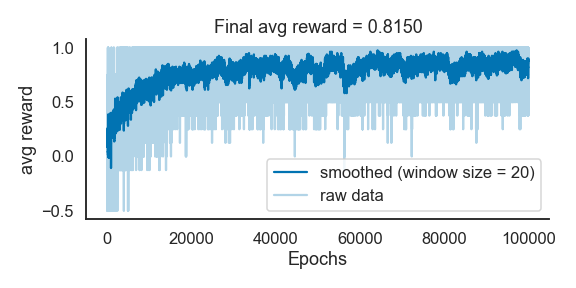
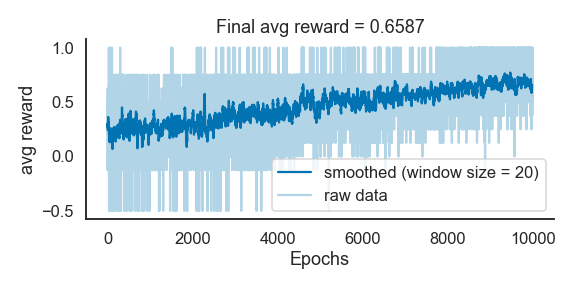
update fr task - allow vary the ratio of n : n_std

diff --git a/src/test-fr.py b/src/test-fr.py
@@ -22,10 +22,11 @@ fig_root = '../figs'
 
 # init task
 n = 8
+n_std = 4
 reward = 1
 penalty = -.5
 tmax = n // 2
-task = FreeRecall(n, reward=reward, penalty=penalty)
+task = FreeRecall(n_std=n_std, n=n, reward=reward, penalty=penalty)
 
 # init model
 lr = 1e-3
@@ -50,7 +51,7 @@ agent.load_state_dict(torch.load(os.path.join(log_path, fname)))
 n_test = 1000
 log_r = np.zeros((n_test, tmax))
 log_a = np.zeros((n_test, tmax))
-log_std_items = np.zeros((n_test, task.n_std))
+log_std_items = np.zeros((n_test, n_std))
 for i in range(n_test):
     # re-sample studied items
     X = task.sample(to_pytorch=True)
@@ -114,8 +115,8 @@ def lag2index(lag, n_std_items):
     return lag_index - 1
 
 # compute the tally for actual and possible responses
-tally = np.zeros((n_test, (task.n_std - 1)* 2))
-tally_poss = np.zeros((n_test, (task.n_std - 1)* 2))
+tally = np.zeros((n_test, (n_std - 1)* 2))
+tally_poss = np.zeros((n_test, (n_std - 1)* 2))
 lags = []
 for i in range(n_test):
     order_i = order[i]
@@ -123,16 +124,16 @@ for i in range(n_test):
     for j in range(len(order_i_rmnan) - 1):
         lag = int(order_i_rmnan[j+1] -  order_i_rmnan[j])
         if lag != 0:
-            lag_index = lag2index(lag, task.n_std)
+            lag_index = lag2index(lag, n_std)
             # increment the count of the corresponding lag index
             tally[i, lag_index] +=1
             lags.append(lag)
 
     for j in range(len(order_i_rmnan) - 1):
-        for o in range(task.n_std):
+        for o in range(n_std):
             lag_poss = int(o - order_i_rmnan[j])
             if lag_poss != 0:
-                lag_index = lag2index(lag_poss, task.n_std)
+                lag_index = lag2index(lag_poss, n_std)
                 tally_poss[i, lag_index] +=1
 
 assert np.all(tally_poss >= tally), 'possible count must >= actual count'
@@ -148,13 +149,13 @@ crp = np.divide(tally, tally_poss, out=np.zeros_like(tally), where=tally_poss!=0
 
 
 p_mu, p_se = compute_stats(crp, axis=0)
-xticklabels = np.concatenate((np.arange(-(task.n_std - 1), 0), np.arange(1, task.n_std)))
+xticklabels = np.concatenate((np.arange(-(n_std - 1), 0), np.arange(1, n_std)))
 
 f, ax = plt.subplots(1,1, figsize=(6,4))
-ax.errorbar(x=np.arange(task.n_std - 1), y=p_mu[:task.n_std - 1], yerr = p_se[:task.n_std - 1],color='k')
-ax.errorbar(x=np.arange(task.n_std - 1) + (task.n_std - 1), y=p_mu[-(task.n_std - 1):], yerr = p_se[-(task.n_std - 1):], color='k')
+ax.errorbar(x=np.arange(n_std - 1), y=p_mu[:n_std - 1], yerr = p_se[:n_std - 1],color='k')
+ax.errorbar(x=np.arange(n_std - 1) + (n_std - 1), y=p_mu[-(n_std - 1):], yerr = p_se[-(n_std - 1):], color='k')
 ax.set_ylim([0, None])
-ax.set_xticks(np.arange((task.n_std - 1)*2))
+ax.set_xticks(np.arange((n_std - 1)*2))
 ax.set_xticklabels(xticklabels)
 ax.set_xlabel('Lag')
 ax.set_ylabel('p')

diff --git a/src/train-fr.py b/src/train-fr.py
@@ -21,32 +21,33 @@ log_root = '../log'
 fig_root = '../figs'
 
 # init task
-n = 8
+n_std = 4
+n = 10
 reward = 1
 penalty = -.5
 tmax = n // 2
-task = FreeRecall(n, reward=reward, penalty=penalty)
+task = FreeRecall(n_std=n_std, n=n, reward=reward, penalty=penalty)
 
 # init model
 dim_input = task.x_dim
 dim_output = task.x_dim
 lr = 1e-3
-dim_hidden = 512
+dim_hidden = 128
 
 # for dim_hidden in [2 ** k for k in np.arange(4, 10)]:
 
 # make log dirs
-exp_name = f'n-{n}-h-{dim_hidden}'
+exp_name = f'n-{n}-n_std-{n_std}/-h-{dim_hidden}'
 log_path, fig_path = make_log_fig_dir(exp_name)
 
 # testing
 agent = CRPLSTM(dim_input, dim_hidden, dim_output, 0, use_ctx=False)
 optimizer = torch.optim.Adam(agent.parameters(), lr=lr)
 
-n_epochs = 100001
+n_epochs = 10001
 log_r = np.zeros((n_epochs, tmax))
 log_a = np.zeros((n_epochs, tmax))
-log_std_items = np.zeros((n_epochs, task.n_std))
+log_std_items = np.zeros((n_epochs, n_std))
 log_loss_actor = np.zeros((n_epochs, ))
 log_loss_critic = np.zeros((n_epochs, ))
 for i in range(n_epochs):

diff --git a/src/tasks/FreeRecall.py b/src/tasks/FreeRecall.py
@@ -9,11 +9,11 @@ class FreeRecall():
     learn n/2 (out of n) items during study, and then recall during test
     '''
 
-    def __init__(self, n, reward=1, penalty=-1):
-        assert n % 2 == 0 and n > 1, 'n must be even'
+    def __init__(self, n_std=8, n=50, reward=1, penalty=-1):
+        assert n > n_std > 1, 'n words > n study items > 1'
         assert reward > 0 and penalty <= 0, 'reward/penalty must be pos/neg'
         self.n = n
-        self.n_std = n // 2
+        self.n_std = n_std
         self.reward = reward
         self.penalty = penalty
         # init helpers
@@ -69,8 +69,9 @@ if __name__ == "__main__":
     import seaborn as sns
     sns.set(style='white', palette='colorblind', context='poster')
     np.random.seed()
-    n = 4
-    task = FreeRecall(n)
+    n_std = 3
+    n = 10
+    task = FreeRecall(n_std, n)
     X = task.sample()
     # print(task.stimuli)
     print(task.studied_item_ids)
